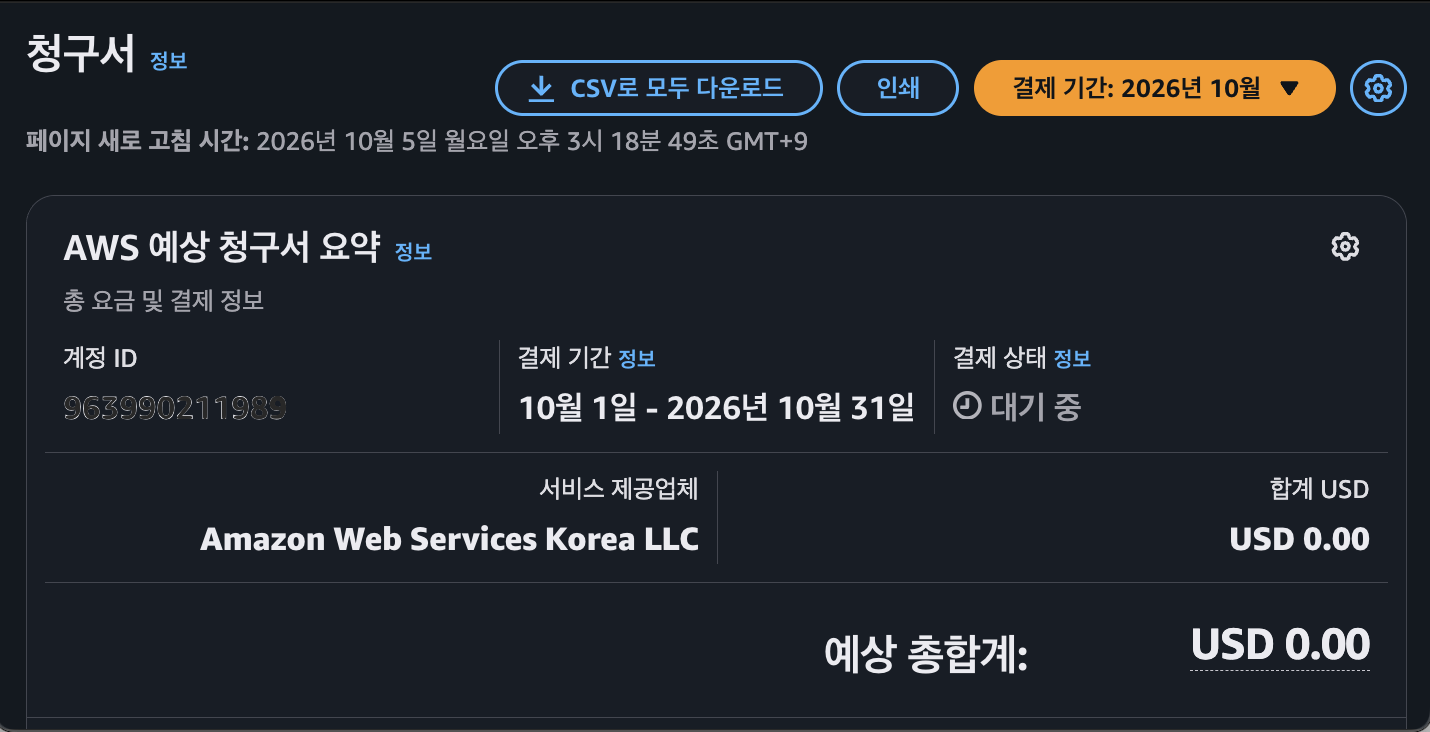
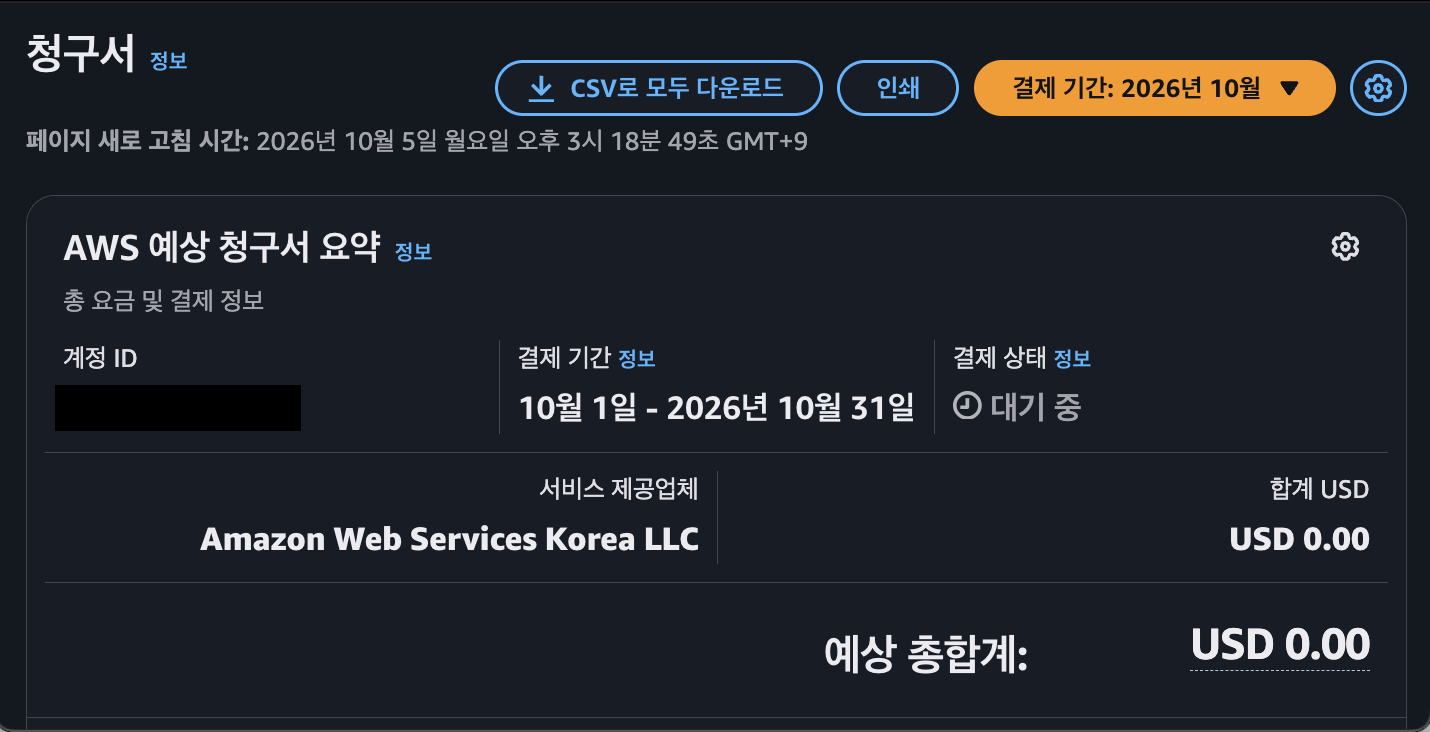
docs: README·트러블슈팅·체크리스트 최종 반영, billing 계정 ID 마스킹

Changed region(s): [[0.0308, 0.5109, 0.2154, 0.6011]]

diff --git a/docs/troubleshooting.md b/docs/troubleshooting.md
@@ -5,17 +5,17 @@
 | # | 구분 | 한 줄 요약 | 상태 |
 |---|------|-----------|------|
 | 1 | 애플리케이션 | 컨테이너 기동 직후 Nginx 종료: `socket() [::]:80 failed (97)` | 해결. 실제 로그 기반 |
-| 2 | 네트워크(라우팅) | EC2는 running인데 외부에서 `http://<퍼블릭IP>` 타임아웃 | 재현 절차와 판별법 정리. 배포 시 결과 기입 |
-| 3 | 보안 그룹 | 어제 되던 SSH가 오늘 `Operation timed out` | 재현 절차와 판별법 정리. 배포 시 결과 기입 |
-| 4 | IAM | `RunInstances` 호출 시 `UnauthorizedOperation` | 재현 절차와 판별법 정리. 배포 시 결과 기입 |
+| 2 | 네트워크(라우팅) | EC2는 running인데 외부에서 `http://<퍼블릭IP>` 타임아웃 | 재현·판별 가이드 (미실행) |
+| 3 | 보안 그룹 | 어제 되던 SSH가 오늘 `Operation timed out` | 재현·판별 가이드 (미실행) |
+| 4 | IAM | `RunInstances` 호출 시 `UnauthorizedOperation` | 재현·판별 가이드 (미실행) |
 | 5 | 배포 스크립트(Windows) | `RunInstances` 호출 시 `Unable to load paramfile file:///tmp/...: No such file or directory` | 해결. 실제 로그 기반 |
 | 6 | 배포 스크립트(키 페어) | 재배포 시 `InvalidKeyPair.NotFound` | 해결. 실제 로그 기반 |
 | 7 | SSH(Windows) | `Load key "...pem": invalid format` → `Permission denied (publickey)` | 해결. 실제 로그 기반 |
 | 8 | 배포 스크립트(Windows, Git 설정) | 원격 점검 스크립트가 `$'\r': command not found` / `syntax error` | 해결. 실제 로그 기반 |
 
 > 1, 5, 6, 7, 8번은 이 저장소를 실제로 배포하면서 **실제로 발생한** 오류이고, 로그와 조치를 그대로 옮겼다.
-> 2~4번은 이 구성에서 가장 흔히 겪는 통신/권한 오류다. 원인을 일부러 만들어 재현하는 절차와 로그로 판별하는 방법을 적어 두었다.
-> 실제 AWS에서 재현했을 때 나온 출력과 스크린샷은 각 건의 `결과` 칸에 붙인다.
+> 2~4번은 **실제로 발생하지 않은** 예상 오류다. 이 구성에서 가장 흔히 겪는 통신/권한 오류를 골라, 원인을 일부러 만들어 재현하는 절차와 로그로 판별하는 방법을 정리한 **가이드**다.
+> 실습 중 재현하지 않았으므로 `결과` 칸에는 "기대 결과"만 적었다. 실제 출력으로 오해하지 않도록 구분해 둔다.
 
 ---
 
@@ -61,7 +61,7 @@ OK
 
 ---
 
-## 2. 인스턴스는 running인데 외부에서 웹 접속이 타임아웃됨 (라우팅 누락)
+## 2. [가이드] 인스턴스는 running인데 외부에서 웹 접속이 타임아웃됨 (라우팅 누락)
 
 | 항목 | 내용 |
 |------|------|
@@ -69,7 +69,7 @@ OK
 | **원인 가설** | ① SG 인바운드 80이 없음 ② Nginx가 떠 있지 않음 ③ 서브넷의 라우트 테이블에 `0.0.0.0/0 → IGW`가 없음(서브넷이 **기본(main) RT**에 연결됨) ④ 인스턴스에 퍼블릭 IP가 없음 |
 | **검증 방법** | 안쪽에서 바깥쪽 순서로 좁힌다.<br>② `aws ec2 get-console-output --instance-id <id> --latest`로 cloud-init 로그에 `localhost / -> 200`이 있는지 본다(SSH가 안 될 때도 확인할 수 있다).<br>① `aws ec2 describe-security-group-rules --filters Name=group-id,Values=<sg>`<br>④ `aws ec2 describe-instances --query 'Reservations[].Instances[].PublicIpAddress'`<br>③ `aws ec2 describe-route-tables --filters Name=association.subnet-id,Values=<subnet>`. 결과가 비어 있으면 서브넷이 main RT를 쓰고 있다는 뜻이다. main RT에는 `local` 경로만 있다.<br>보조: `curl https://example.com`을 인스턴스 안에서 실행했을 때 아웃바운드도 실패하면 ③일 가능성이 높다(응답 패킷이 돌아올 경로가 없다). |
 | **조치 내용** | 퍼블릭 RT에 `create-route --destination-cidr-block 0.0.0.0/0 --gateway-id <igw>`를 추가하고 `associate-route-table --subnet-id <subnet>`으로 서브넷에 명시적으로 연결한다. |
-| **결과** | _(배포 시 기입: 조치 전 `describe-route-tables` 출력, 조치 후 `curl -i http://<IP>/health` 200 스크린샷)_ |
+| **결과(기대)** | _미실행._ 조치 후 `curl -i http://<IP>/health`가 `200 OK` / `OK`를 반환해야 한다. |
 | **재발 방지** | `provision.sh` 4단계에서 경로 생성과 서브넷 연결을 한 번에 하고, 생성 직후 라우트 테이블을 표로 출력해 `0.0.0.0/0 → igw-… active`를 눈으로 확인한다. 배포 체크리스트에 "퍼블릭 서브넷 = IGW 경로가 있는 RT에 연결된 서브넷"을 추가한다. |
 
 재현 방법: 아래 명령으로 서브넷 연결을 끊어 main RT로 되돌리면 같은 증상이 나타난다. 확인한 뒤 다시 연결한다.
@@ -82,7 +82,7 @@ aws ec2 associate-route-table --route-table-id "$RTB_ID" --subnet-id "$SUBNET_ID
 
 ---
 
-## 3. 어제 되던 SSH가 오늘 타임아웃됨 (SG 소스 IP 불일치)
+## 3. [가이드] 어제 되던 SSH가 오늘 타임아웃됨 (SG 소스 IP 불일치)
 
 | 항목 | 내용 |
 |------|------|
@@ -90,12 +90,12 @@ aws ec2 associate-route-table --route-table-id "$RTB_ID" --subnet-id "$SUBNET_ID
 | **원인 가설** | ① 인스턴스 장애 ② 키 파일 문제 ③ 내 공인 IP가 바뀌어서(다른 Wi-Fi, 통신사 재할당) SG 22번 규칙의 `/32` 소스와 맞지 않음 |
 | **검증 방법** | HTTP가 200이므로 ①(인스턴스와 네트워크 경로)은 기각한다. 키 문제면 `Permission denied (publickey)`가 **즉시** 돌아와야 한다. **타임아웃**은 패킷이 필터에서 버려졌다는 신호이므로 ②도 기각한다. `curl https://checkip.amazonaws.com`으로 현재 IP를 SG 규칙의 CIDR과 비교해 불일치를 확인한다. 증거가 더 필요하면 VPC Flow Logs에서 `dstport=22 action=REJECT` 레코드를 찾는다. |
 | **조치 내용** | 기존 22번 규칙을 `revoke`한 뒤 새 IP로 `authorize-security-group-ingress --protocol tcp --port 22 --cidr <새IP>/32`를 실행한다. **0.0.0.0/0으로 여는 것은 금지.** |
-| **결과** | _(배포 시 기입: 규칙 변경 전후 SG 화면, SSH 접속 성공 화면)_ |
+| **결과(기대)** | _미실행._ 새 IP로 규칙을 바꾸면 SSH가 즉시 접속되고, HTTP 80은 영향 없이 계속 200이어야 한다. |
 | **재발 방지** | 증상의 종류로 원인 계층을 먼저 가른다. 타임아웃이면 네트워크/필터, 즉시 거부면 인증/서비스다. `provision.sh`는 실행할 때마다 현재 IP를 자동으로 조회한다. 작업이 끝나면 22번 규칙을 삭제하는 것도 방법이다. |
 
 ---
 
-## 4. `RunInstances` 호출 시 `UnauthorizedOperation` (IAM 최소권한)
+## 4. [가이드] `RunInstances` 호출 시 `UnauthorizedOperation` (IAM 최소권한)
 
 | 항목 | 내용 |
 |------|------|
@@ -103,7 +103,7 @@ aws ec2 associate-route-table --route-table-id "$RTB_ID" --subnet-id "$SUBNET_ID
 | **원인 가설** | ① 리전이 서울이 아님(`aws:RequestedRegion` 조건 불일치) ② 인스턴스 타입이 t2/t3.micro가 아님(명시적 Deny) ③ 루트 볼륨이 10GiB를 넘음(명시적 Deny) ④ AMI 조회용 `ssm:GetParameters` 권한 없음 |
 | **검증 방법** | 인코딩된 메시지를 디코딩한다(정책에 `sts:DecodeAuthorizationMessage`를 허용해 둔 이유).<br>`aws sts decode-authorization-message --encoded-message <msg> --query DecodedMessage --output text \| python3 -m json.tool`<br>출력의 `matchedStatements`에 `DenyNonFreeTierInstanceTypes`처럼 **어느 Statement가 거부했는지**와 `context.action`, `resource`가 나온다. |
 | **조치 내용** | 요청을 정책에 맞춘다(예: `INSTANCE_TYPE=t3.micro`, 볼륨 8GiB, `AWS_REGION=ap-northeast-2`). **권한을 넓히는 것은 마지막 수단**이고, 그때도 필요한 Action 하나만 추가한다. |
-| **결과** | _(배포 시 기입: 디코딩된 메시지 일부와 재실행 성공 출력)_ |
+| **결과(기대)** | _미실행._ 디코딩 결과에 거부한 Statement(예: `DenyNonFreeTierInstanceTypes`)가 나오고, 정책 범위로 요청을 고치면 `RunInstances`가 성공해야 한다. |
 | **재발 방지** | 정책의 Deny 조건을 README에 명시한다. 스크립트 기본값을 정책과 일치시켜 두었다(t3.micro, 8GiB, ap-northeast-2). |
 
 재현 방법:

diff --git a/README.md b/README.md
@@ -58,9 +58,9 @@ VPC로 네트워크를 격리하고, 보안 그룹과 IAM에 최소권한을 적
 적용 방법(관리 권한이 있는 계정에서 한 번만 한다. 이후 작업은 모두 이 IAM 사용자로 한다):
 
 1. IAM → 정책 → 정책 생성 → JSON 탭에 `infra/iam-policy.json`을 붙여 넣는다. 이름은 `UploadTheWebsiteLeastPrivilege`.
-2. IAM → 사용자 생성 → `cloud-mission-user`(콘솔 액세스 허용) → 위 정책**만** 직접 연결한다(그룹에 넣지 않는다. 인라인 정책도 추가하지 않는다).
+2. IAM → 사용자 생성 → `cloud-mission-user`(**콘솔 액세스 비활성화**, CLI 전용) → 위 정책**만** 직접 연결한다(그룹에 넣지 않는다. 인라인 정책도 추가하지 않는다).
 3. CLI를 쓰려면 해당 사용자의 액세스 키를 발급해 `aws configure`로 설정한다. 리전은 `ap-northeast-2`.
-4. 루트 계정은 MFA만 설정한 뒤 사용하지 않는다.
+4. 루트 계정은 MFA를 설정하고, IAM 초기 설정(정책·사용자 생성)과 IAM·Billing 증빙 화면 조회에만 사용한다. 실습 리소스 생성·삭제는 전부 `cloud-mission-user`로 했다.
 
 **증빙(실제로 실습에 쓴 `cloud-mission-user`에 이 정책 하나만 붙어 있는지 확인)**: `cloud-mission-user`는 이 정책에 `iam:List*`/`iam:Get*` 권한이 없어 스스로를 조회할 수 없다(이 자체가 권한이 넓지 않다는 증거이기도 하다). 그래서 **관리자 자격 증명**으로 아래를 실행해 확인한다.
 
@@ -121,6 +121,8 @@ ssh -i ~/.ssh/upload-the-website-key.pem ubuntu@<퍼블릭IP> 'bash -s' < infra/
 | 검증 URL | `http://54.180.157.90/health` |
 | 검증 일시 | 2026-09-26 17:13 KST |
 
+> 검증 후 과금 방지를 위해 리소스를 모두 정리했으므로([정리 체크리스트](docs/cleanup-checklist.md)) **현재 위 IP로는 접속되지 않는다.** 접속 결과는 아래 로그와 스크린샷으로 확인한다.
+
 외부 PC(인스턴스 밖, Windows/Git Bash)에서 실행했다.
 
 ```bash
@@ -152,7 +154,17 @@ OK
 | **Route Table 경로**<br>[`route-table.png`](docs/screenshots/route-table.png)<br>`0.0.0.0/0 → igw-...`(활성), `10.0.0.0/16 → local` | **리소스 정리(cleanup.sh) 실행 로그**<br>[`cleanup-terminal.png`](docs/screenshots/cleanup-terminal.png)<br>EC2/EBS/EIP/NAT/IGW/VPC 잔여 리소스 확인 결과 |
 | ![route table](docs/screenshots/route-table.png) | ![cleanup terminal](docs/screenshots/cleanup-terminal.png) |
 
-IAM 최소권한 증빙(`iam-permissions.png`, 콘솔 IAM → 사용자 `cloud-mission-user` → 권한 탭에서 정책 1개만 연결된 화면)은 아직 촬영 전이다. 실제 배포 시 캡처해 [`docs/screenshots/`](docs/screenshots/)에 추가하고 이 표에 반영한다. 그 전까지는 아래 `./infra/verify-iam-user.sh` 실행 결과(텍스트 로그)로 대신 확인한다.
+**IAM 최소권한 증빙** (계정 ID·액세스 키 ID는 가림)
+
+| | |
+|---|---|
+| **사용자 권한 탭**<br>[`iam-permissions.png`](docs/screenshots/iam-permissions.png)<br>`cloud-mission-user`에 고객 관리형 정책 `UploadTheWebsiteLeastPrivilege` **1개만 직접 연결**, 그룹 0개 | **정책 요약**<br>[`iam-policy-summary.png`](docs/screenshots/iam-policy-summary.png)<br>허용 서비스 475개 중 **4개**(EC2·IAM·STS·SSM), EC2는 `ap-northeast-2` 조건, 명시적 거부 2개 |
+| ![iam permissions](docs/screenshots/iam-permissions.png) | ![iam policy summary](docs/screenshots/iam-policy-summary.png) |
+
+**과금 확인** — [`billing.png`](docs/screenshots/billing.png)
+리소스 정리 후 Billing 콘솔에서 예상 총합계 **USD 0.00** 확인 (2026-10-05).
+
+![billing](docs/screenshots/billing.png)
 
 ## 보너스 2: Docker 컨테이너 배포
 

diff --git a/docs/cleanup-checklist.md b/docs/cleanup-checklist.md
@@ -62,6 +62,6 @@ EC2 종료 ─▶ (루트 EBS 자동 삭제) ─▶ EIP 해제 ─▶ SG 삭제 
 - [x] `./infra/cleanup.sh` 마지막 "잔여 리소스 확인" 출력이 모두 비어 있다 (EC2/EBS/EIP/NAT Gateway/IGW/VPC 전부 빈 목록).
 - [ ] 콘솔 **EC2 대시보드**(서울 리전)에서 인스턴스, 볼륨, 탄력적 IP, 보안 그룹(default 제외) 수가 0이다. *(스크립트 출력으로 확인됨. 콘솔에서 육안으로 한 번 더 확인하면 더 확실하다.)*
 - [ ] 콘솔 **VPC 대시보드**에서 기본 VPC 외에 남은 VPC가 없다. *(스크립트 출력으로 확인됨. 콘솔에서 육안으로 한 번 더 확인하면 더 확실하다.)*
-- [ ] (권장) **Billing and Cost Management → 청구서/Free Tier** 화면에서 예상 과금이 없다.
+- [x] (권장) **Billing and Cost Management → 청구서** 화면에서 예상 총합계 **USD 0.00** 확인 (2026-10-05, 루트 계정으로 조회 — `cloud-mission-user`에는 결제 조회 권한을 주지 않았다).
       (IAM 사용자로 보려면 관리자가 IAM 사용자의 결제 정보 접근을 활성화하고 `billing:View*` 읽기 권한을 따로 부여해야 한다.)
-- [x] 증빙 스크린샷: [`docs/screenshots/cleanup-terminal.png`](screenshots/cleanup-terminal.png) (`cleanup.sh` 전체 실행 로그 + 잔여 리소스 확인). (선택) `docs/screenshots/billing.png`
+- [x] 증빙 스크린샷: [`docs/screenshots/cleanup-terminal.png`](screenshots/cleanup-terminal.png) (`cleanup.sh` 전체 실행 로그 + 잔여 리소스 확인). [`docs/screenshots/billing.png`](screenshots/billing.png) (Billing 예상 요금 0원)
